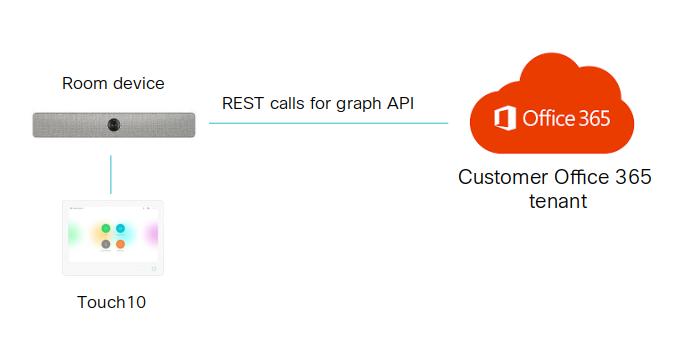
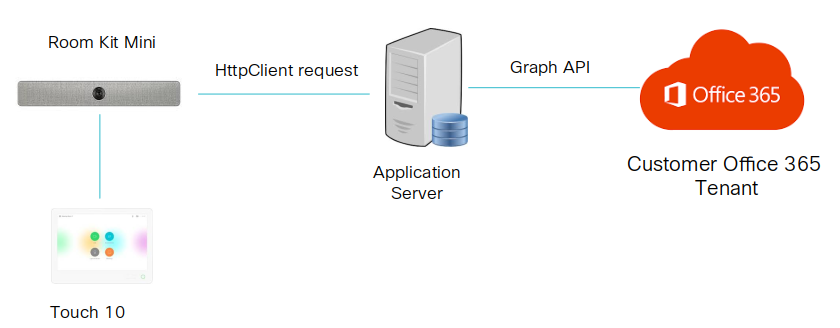
collab-xapi-macros - Remove Step1 from 1.md - Add macro editor linked resources section to 2.md - Add code discussion and jsxapi vs. xapi note to 2.md - Change 3.md title to ;Managing macros' - Layout changes and note re HttpClient admin settings 4.md - 5.md: change title, add discussion/caveats abo

diff --git a/labs/collab-xapi-macros/2.md b/labs/collab-xapi-macros/2.md
@@ -1,4 +1,4 @@
-# Step 2: Macro 'Hello World'
+# Step 1: Macro 'Hello World'
 
 Let's take a quick tour of the **Macro Editor** that is part of the collaboration device web admin UI, and then test running a no-frills sample macro.  The **Macro Editor** combines the ability to manage/upload/export macros, create/edit/run macros as well as providing documentation and tutorials for getting started with macro development:
 
@@ -12,13 +12,23 @@ Let's take a quick tour of the **Macro Editor** that is part of the collaboratio
 
     ![Enable Macros](assets/images/step2-enable-macros.png)
 
-3. As the macros dashboard opens, look for the left panel that helps manage the macros deployed on your device:
+Take some time to explore the various resources provided in the Macro Editor on the right.
+
+You’ll find several tabs with useful links:
+
+- **Introduction**: this tab contains handy code snippets demonstrating how to invoke commands, listen to events and update configuration settings
+- **Examples**: these scripts are organized by use-case, are fully operational, and can be experimented by clicking the **Load Example** button
+- **Tutorial**: this guide is an excellent walk-through to help you in your first steps with the macro framework (the guide is also available online here [CE Macros Tutorial](https://github.com/ObjectIsAdvantag/xapi-samples/blob/master/macros/pdf/macro-tutorial.pdf).
+
+**Let's create our first macro:**
+
+1. In the Macro Editor, look for the left panel that helps manage the macros deployed on your device:
 
     ![Macros Dashboard](assets/images/step2-macro-dashboard.png)
 
     Click **Create a new macro**
 
-4. Copy and paste in the JavaScript code below:
+1. Copy and paste in the JavaScript code below:
 
     ```javascript
     const xapi = require('xapi');
@@ -28,9 +38,21 @@ Let's take a quick tour of the **Macro Editor** that is part of the collaboratio
         "Hello World! This is your test macro");
     ```
 
-6. Save your macro and rename it `hello`
+1. Save your macro and rename it `hello`
 
-7. Launch your macro by clicking the round toggle shown below:
+1. Let's take a peek at the macro code:
+
+    * At the top is `const xapi = require('xapi')` which imports a custom JavaScript package exposing all of the xAPI functionality to the macro code.  This package is identical in function to the [jsxapi](https://www.npmjs.com/package/jsxapi) package avaialble for Node.js developers.
+
+    This line will be part of just about every macro you build, and enables the script to interact with the local device programmatically
+    * The next line `console.log('Test macro starting up...')` will print a short welcome message to the Macro Editor's console window - a handy way to get insight into your script as its running or troubleshoot via 'trace' output
+    * The last line `xapi.config.set(...)` uses the `xapi` object created above to send an xAPI command to the local device - here it is configuring the on-screen welcome text to a custom string
+
+    >Note: one big difference between jsxapi scripts running on a remote machine vs macro scripts running on-board: the `jsxapi.connect(...)` step needed in a remote app to connect to the target collaboration device is unnecessary/invalid for a macro, as the `xapi` object is automatically connected to the local device
+
+**Let's fire up your test macro:**
+
+1. Launch your macro by clicking the round toggle shown below:
 
     ![Running the new macro](assets/images/step2-launch-macro.png)
 
@@ -38,21 +60,12 @@ Let's take a quick tour of the **Macro Editor** that is part of the collaboratio
 
     ![Console output](assets/images/step2-console-output.png)
 
-1. You can confirm that the `xapi.config.set()` command to set the on-screen custom display message worked by switching to the admin web UI and browsing to **Setup** > **Personalization**:
+1. You can confirm that the `xapi.config.set(...)` command to set the on-screen custom display message worked by checking your device's main display (if it has one), or switching to the admin web UI and browsing to **Setup** > **Personalization** (scroll down to the bottom):
 
     ![Custom message](assets/images/step2-custom-message.png)
 
->To learn more about xAPI coding with jsxapi, check out the lab [Introduction to xAPI for Cisco collaboration devices](https://learninglabs.cisco.com/lab/collab-xapi-intro/step/1)
+>To learn more about xAPI coding with JavaScript and jsxapi, check out the lab [Introduction to xAPI for Cisco collaboration devices](https://learninglabs.cisco.com/lab/collab-xapi-intro/step/1)
 
 **Congrats! Your macro is up and running!**
 
-## Going Further
-
-Take some time to explore the various resources provided in the Macro Editor on the right.
-
-You’ll find several tabs with useful links:
-
-- **Introduction**: this tab contains handy code snippets demonstrating how to invoke commands, listen to events and update configuration settings
-- **Examples**: these scripts are organized by use-case, are fully operational, and can be experimented by clicking the **Load Example** button
-- **Tutorial**: this guide is an excellent walk-through to help you in your first steps with the macro framework (the guide is also available online here [CE 9.2.1+ Macros Tutorial](https://github.com/ObjectIsAdvantag/xapi-samples/blob/master/macros/pdf/macro-tutorial.pdf).
 

diff --git a/labs/collab-xapi-macros/5.md b/labs/collab-xapi-macros/5.md
@@ -1,8 +1,8 @@
-# Putting it all together - making a room/meeting extsion request on-screen
+# Step 4: Putting it all together - on-screen booking
 
 For the final sample, we will pull together various collaboration device concepts - xAPI, jsxapi, macros, HttpClient, in-room-controls - to propose a solution to a real-world use-case relevant to enterprises today.
 
-## The problem - easily managing room reservations in-person
+## The problem - making room reservations in-person
 
 For many large enterprises, real estate is the second biggest expense after payroll.
 
@@ -22,25 +22,29 @@ Solutions to these use-cases exist, but typically involve cobbling together vari
 
 ![Compelex](assets/images/step5-rube-goldberg.png)
 
-The good new is that with Cisco collaboration device automation, xAPI and macros, all of the above scenarios can potentially be accomplished by creating applications that run on-board the device itself and present customized Touch10 control interfaces for user interaction!
+The good news is that with Cisco collaboration device automation, xAPI and macros, all of the above scenarios can potentially be accomplished by creating applications that run on-board the device itself and present customized Touch10 control interfaces for user interaction!
 
-![Simple](assets/images/step5-new-architecture.png)
+## The solution - a 'Book Meeting Room' panel + macro
 
-## The solution - a unified 'extend this meeting' button + macro
+The sample macro + in-room-control set we will test next provides a Touch10 panel UI allowing walk-in users to reserve the room for 15/30/45 or 60 minutes, using a simple UI on the Touch10.  
 
-The sample macro + in-room-control set we will test next provides a Touch10 panel UI allowing walk-in users to reserve the room for 15/30/45 or 60 minutes.  The macro will handle this UI interaction, then make an HttpClient request to a cloud API to 'book' the room, providing feedback on the success/failure of the request via an on-screen alert pop-up.
+The macro will handle this UI interaction, then make an HttpClient request to a remote app server to 'book' the room, providing feedback on the success/failure of the request via an on-screen alert pop-up.
 
 ![Book](assets/images/step5-book-panel.png)
 
 ![Book meeting](assets/images/step5-book-meeting.png)
 
->Note: this sample solution will use the 'fake' cloud REST API we used previously to make a mock reservation, however the framework could easily be extended to use a real scheduling service/API like Outlook 365)
+Note, this sample solution will use the 'fake' cloud REST API we used previously to make a mock reservation.  It is important to understand that, due to the limitations of HttpClient (HTTP POST/Put only, unable to retrieve bulk response data), a production implementation of this solution would need an external HTTP app server which would handle the complex read/write/update/delete API operations with the back-end scheduling service.
 
-The sample works as below:
+![Simple](assets/images/step5-new-architecture.png)
+
+## How it works
+
+The sample would operates like this:
 
 * It is deployed by an admin as a template backup file to the room system
 * The user clicks **Book** to open the booking panel, selects a duration, and click **Submit**
-* The macro handles the submit button click, and reads the selected duration value, creating a payload object encapsulating details of the booking request (start time, end time, room name, etc.)
+* The macro handles the submit button click, and reads the selected duration value, creating a payload object encapsulating details of the booking request (start time, end time, device name, etc.)
 * An HttpClient request is made to the JSONPlaceholder cloud REST API service containing the payload data (as this is a mock service, the request will always succeed)
 * The HttpClient response return code is checked for success/failure and an appropriate on-screen alert message is displayed
 

diff --git a/labs/collab-xapi-macros/4.md b/labs/collab-xapi-macros/4.md
@@ -1,4 +1,4 @@
-# Step 4: Making external HTTP requests
+# Step 3: Making external HTTP requests
 
 While the automation possibilities of a powerful onboard macro engine and jsxapi are extensive, you might imagine use-cases which would require an application to access resources elsewhere on the network - i.e. by making HTTP REST requests to an API in your data center, or even in the cloud.
 
@@ -21,7 +21,7 @@ This command can be used to send a data payload, in any format you can assemble,
 
 This means that API requests will tend to be limited to doing things like turning peripheral systems on/off and manipulating simple 'control' APIs.  Operations like retrieving and processing data (say, from a messaging API or document store) will be difficult to implement in macros, and will likely need a separate server-based component.
 
-## HttpClient configuration, security settings and caveats
+## HttpClient configuration
 
 By default HttpClient functionality is disabled on collaboration devices...
 
@@ -39,11 +39,13 @@ By default HttpClient functionality is disabled on collaboration devices...
     xConfiguration HttpClient Mode: On
     ```
 
+## HttpClient ecurity settings and considerations    
+
 Also by default, HttpClient will always attempt to authenticate the TLS security certificate presented by the remote HTTPS server for any HTTPS connection attempt.  However, as the macro environment does not have any certificate authorities configured by default, this will fail unless the admin specifically provisions the target server's certificate on the device.
 
 >Note, this provisioning is pretty straightforward - see your device's Administrator Guide under **Configuration** > **Manage the list of trusted certificate authorities (CAs)**
 
-One option for development and testing is to enable a configuration which allows 'insecure' HTTPS requests by HttpClient (just don't enable or use this in production!)
+One option for development/testing is to enable a configuration which allows 'insecure' HTTPS requests by HttpClient (just don't enable or use this in production!)
 
 **Let's enable 'AllowInsecureHTTPS' mode:**
 
@@ -53,7 +55,9 @@ One option for development and testing is to enable a configuration which allows
     xConfiguration HttpClient AllowInsecureHTTPS: True
     ```
 
-    Note, in addition to enabling AllowInsecureHTTPS mode, it is necessary to pass a special option to the HttpClient command to execute any particular request as insecure...more on this in a bit.
+    >Note, in addition to enabling AllowInsecureHTTPS mode, it is necessary to pass a special option to the HttpClient command to execute any particular request as insecure...more on this in a bit.
+
+>Note: HttpClient mode/security settings can also be modified via the device's admin web UI    
 
 ## A simple HttpClient macro sample
 
@@ -95,7 +99,7 @@ To test your device's HttpClient functionality, we will make an HTTP request via
 
 1. Taking a look at the code:
 
-    * Notice that this script does not wait for any user input or other events before performing its main function...it's makes the HttpClient request as soon as it is activated
+    * Notice that this script does not wait for any user input or other events before performing its main function...it's makes the HttpClient request as soon as it is activated (saving an activated macro will cause it to restart after the save)
     * A `payload` variable is constructed as a JavaScript object with several properties that might be apropos 'new message' request
     * The `xapi.command()` method is used, passing in several parmaters for headers (specifying content type JSON and a 'fake' authorization bearer token), and then using `JSON.stringify()` to transform the `payload` object defined above into a JSON string
     * Notice the special `AllowInsecureHTTPS: 'True'` option is used to allow this request to happen in insecure mode

diff --git a/labs/collab-xapi-macros/3.md b/labs/collab-xapi-macros/3.md
@@ -1,4 +1,4 @@
-# Step 3: Deploying macros
+# Step 2: Managing macros
 
 We'll dive deeper into some of the powerful features and functions of macro coding in a bit, but first lets consider the question of how to deploy macros in the enterprise.  (This will also help us provision a complete interactive macro/in-room-control sample for the next section...)
 
@@ -6,7 +6,7 @@ As we've briefly seen in the previous step, it is pretty straightforward for an 
 
 ## CE device configuration backup/restore
 
-Most of the macro deployment mechanisms we'll examine here will be based on the concept of encapsulating device configuration as XML, storing that XML in a file, and then installing that configuation file to other collaboration devices.  I.e.: backup and restore.
+Most of the macro deployment mechanisms we'll examine here will be based on the concept of encapsulating device configuration as XML, storing that XML in a file, and then installing that configuation file to other collaboration devices.  I.e.: via backup and restore.
 
 As of CE 9.3, it is possible via the device admin web UI to create 'backup' files containing selected components of the local device configuration.  The admin can pick and choose which types of configuration to save, including:
 
@@ -33,7 +33,9 @@ As of CE 9.3, it is possible via the device admin web UI to create 'backup' file
 
     You should see two files `manifest.json` and `macro-hello.js`
 
-1. Go ahead and open `macro-hello.js` and verify that it contains the exact contents of the JavaScript macro we created in the previous step.  You can peek into `manifest.json` too, which is interesting...you should see something like:
+1. Go ahead and open `macro-hello.js` and verify that it contains the exact contents of the JavaScript macro we created in the previous step.  
+
+    You can peek into `manifest.json` too, which is interesting...you should see something like:
 
     ```json
     {
@@ -100,6 +102,7 @@ For example, you could run the following JavaScript application from a remote ma
 
 ```javascript
 const jsxapi = require('jsxapi')
+
 const xapi = jsxapi.connect("ssh://{device_ip}", {
     username: 'admin',
     password: 'password'
@@ -118,7 +121,7 @@ xapi.on('ready', () => {
 });
 ```
 
-The remote jsxapi app or _even the macro code installed by the remote app_ could then install the custom in-room control set (based on the `panel_1.xml` file found in the backup .zip we uploaded earlier), like this:
+The remote jsxapi app or _even the macro installed by the remote app_ could then install a custom in-room control set (see the `panel_1.xml` file found in the backup .zip we uploaded earlier), like this:
 
 ```javascript
 xapi.command('UserInterface Extensions Set',

diff --git a/labs/collab-xapi-macros/1.md b/labs/collab-xapi-macros/1.md
@@ -82,19 +82,3 @@ For more details about installation, configuration and extensibility via xAPI, r
 Note that these guides primarily apply to on-premise registered devices - cloud registered devices may support a more limited set of features depending on model CE version. We’ll cover some of these differences in the next sections. For now, note that you’ll find additional documentation for cloud-registered devices at [Collaboration Help](https://collaborationhelp.cisco.com/article/en-us/jkhs20).
 
 To keep up to date with CE and xAPI developments, you may want to check the [Cisco Collaboration Endpoint software - CE9 release notes](https://www.cisco.com/c/dam/en/us/td/docs/telepresence/endpoint/software/ce9/release-notes/ce-software-release-notes-ce9.pdf) on a regular basis.
-
-## Step 1: finding your device's xAPI documentation
-
-Let’s now grab the documentation covering the available access methods and how to use the xAPI for your device:
-
-1. Open the doc page that corresponds to your device type, from the links above. For example, if you have a Room Kit:
-    
-    ![Guides](assets/images/step1-guides.png)
-
-2. Under **Reference Guides**, click **Command References** to access the API reference documentation for your device, and pick the relevant version such as the [RoomKit API Reference Guide for CE9.5](https://www.cisco.com/c/dam/en/us/td/docs/telepresence/endpoint/ce95/collaboration-endpoint-software-api-reference-guide-ce95.pdf)
-
-    ![API reference](assets/images/step1-api-reference.png)
-
-3. Look for the _About the API_ entry in the table of contents, and click it.
-
-**Congrats, you've accessed the documentation for your device's version of the xAPI!**
